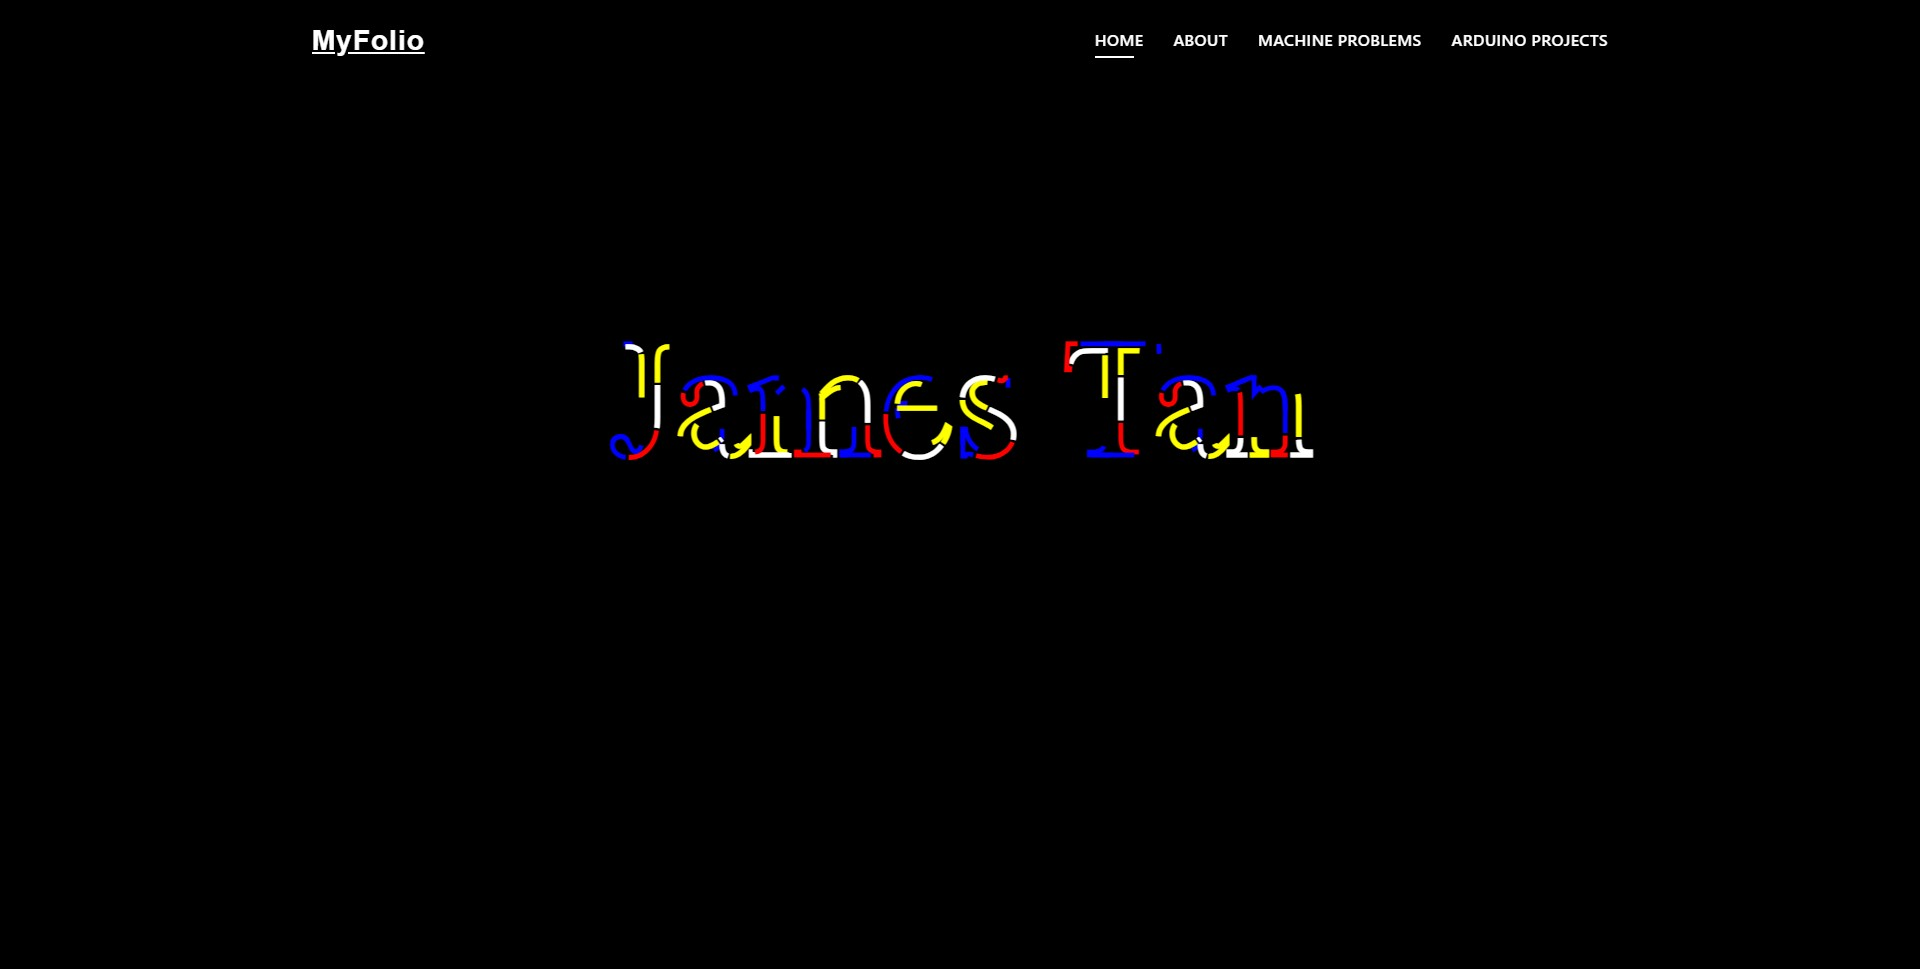
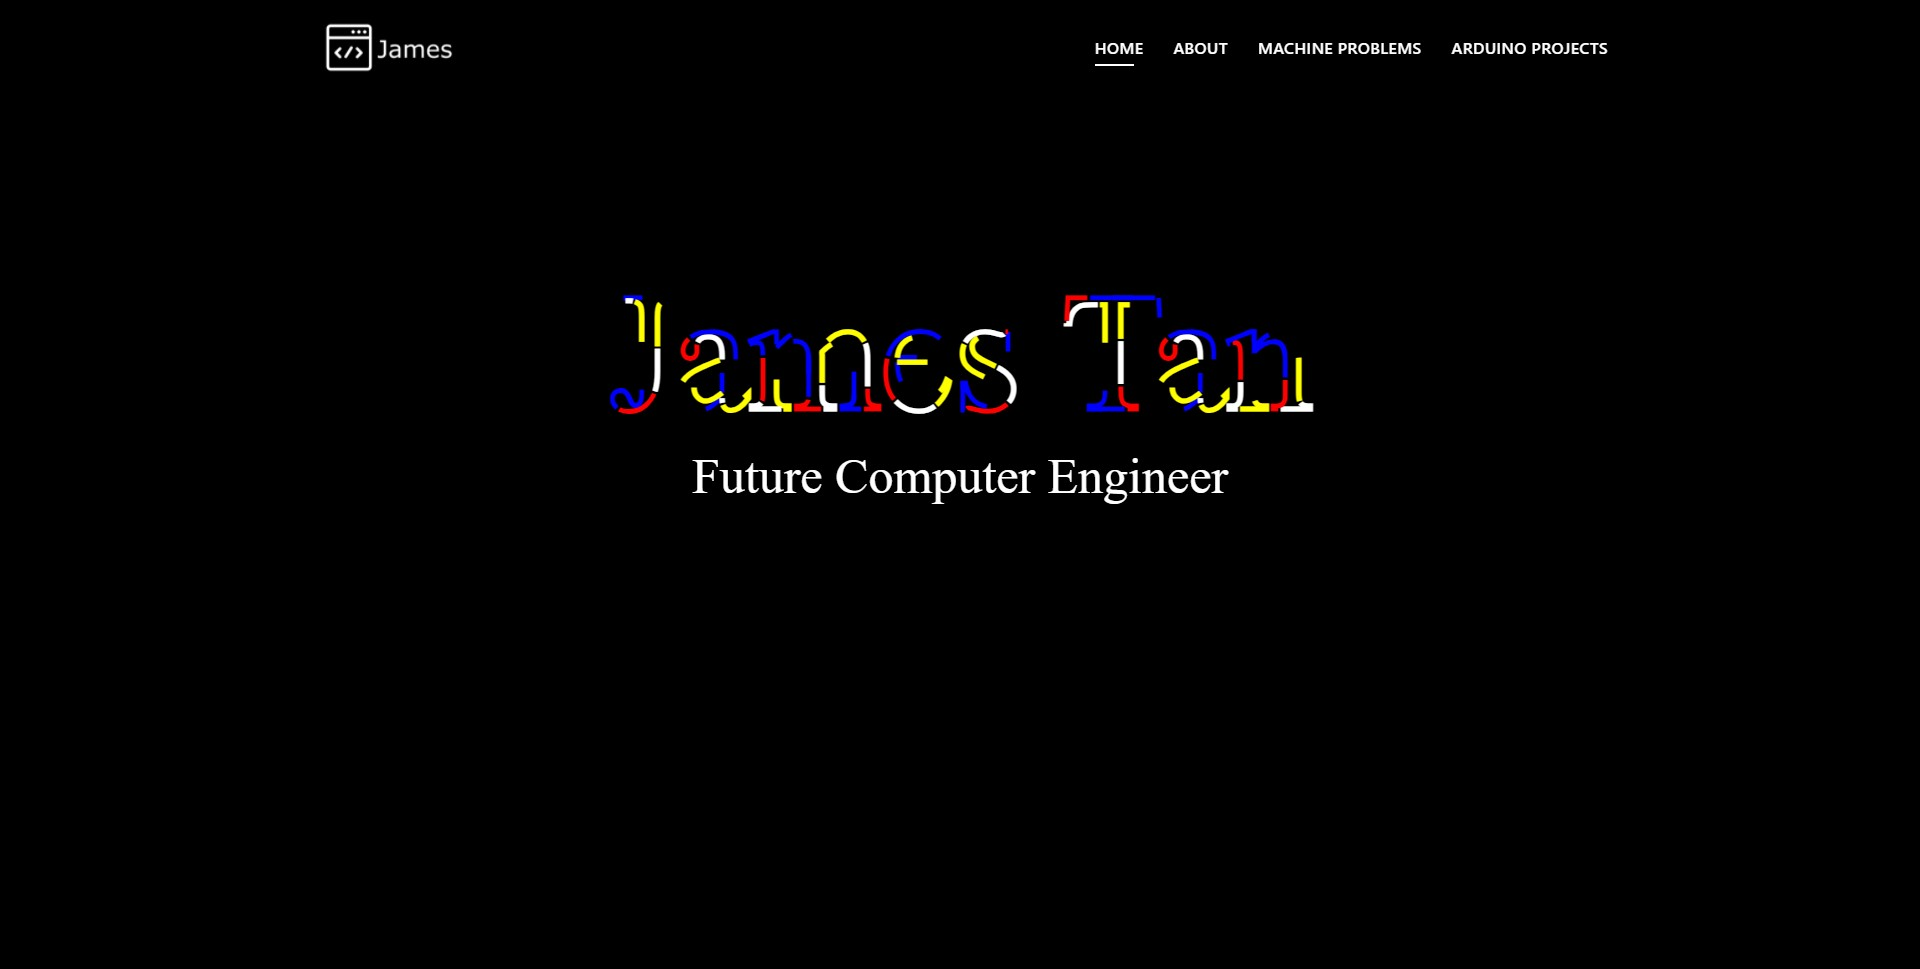
MP4 - Update (3.1)

Changed region(s): [[0.3125, 0.2786, 0.6875, 0.5263], [0.5625, 0.031, 0.8438, 0.0619], [0.1562, 0.031, 0.25, 0.0929]]

diff --git a/index.html b/index.html
@@ -5,6 +5,8 @@
     <meta http-equiv="X-UA-Compatible" content="IE=edge" />
     <meta name="viewport" content="width=device-width, initial-scale=1.0" />
     <title>My Personal Website</title>
+    <link href="Images/JamesLogoTwo.png" rel="icon" />
+    <link href="Images/JamesLogoTwo.png" rel="icon" />
     <link rel="stylesheet" href="bootstrap-5.1.1-dist\css\bootstrap.min.css" />
   </head>
 
@@ -13,14 +15,14 @@
     <header id="header" class="fixed-top">
       <div class="container d-flex align-items-center justify-content-between">
         <h1 class="logo">
-          <a href="MyPersonalWebsite.html"
+          <a href="index.html"
             ><img src="Images/JamesLogoTwo.png" alt="JamesLogoTwo"
           /></a>
         </h1>
 
         <nav id="navbar" class="navbar">
           <ul>
-            <li><a class="nav-link scrollto active" href="#hero">Home</a></li>
+            <li><a class="nav-link scrollto" href="#hero">Home</a></li>
             <li><a class="nav-link scrollto" href="#AboutMe">About</a></li>
             <li>
               <a class="nav-link scrollto" href="#MachineProblem"
@@ -59,18 +61,18 @@
                   <use xlink:href="#s-text" class="text-copy"></use>
                 </g>
               </svg>
+              <p
+                style="
+                  font-family: montserrat;
+                  font-size: 5vmin;
+                  position: relative;
+                  bottom: 150px;
+                  text-align: center;
+                "
+              >
+                Future Computer Engineer
+              </p>
             </div>
-            <p
-              style="
-                font-family: montserrat;
-                font-size: 50px;
-                position: relative;
-                bottom: 150px;
-                text-align: center;
-              "
-            >
-              Future Computer Engineer
-            </p>
           </div>
         </div>
       </div>
@@ -181,23 +183,24 @@
                         <h5 class="title-left">About me</h5>
                       </div>
                       <p class="lead">
-                        Curabitur non nulla sit amet nisl tempus convallis quis
-                        ac lectus. Curabitur arcu erat, accumsan id imperdiet
-                        et, porttitor at sem. Praesent sapien massa, convallis a
-                        pellentesque nec, egestas non nisi. Nulla porttitor
-                        accumsan tincidunt.
+                        James Matthew F. Tan is a third-year computer
+                        engineering student from The University of the East. He
+                        is a competent and hardworking student.He knows he needs
+                        to work hard and at the same time work smart to achieve
+                        those great things, he is willing to do everything that
+                        is needed to be done to achieve a life where he is at
+                        the top.
                       </p>
                       <p class="lead">
-                        Mauris blandit aliquet elit, eget tincidunt nibh
-                        pulvinar a. Vivamus suscipit tortor eget felis porttitor
-                        volutpat. Vestibulum ac diam sit amet quam vehicula
-                        elementum sed sit amet dui. porttitor at sem.
+                        He always wants to achieve great things in life and that
+                        includes being a great engineer and have the chance to
+                        work with one of the greatest minds of this generation
+                        like Elon Musk, Jeff Bezos, and Bill Gates.
                       </p>
                       <p class="lead">
-                        Nulla porttitor accumsan tincidunt. Quisque velit nisi,
-                        pretium ut lacinia in, elementum id enim. Nulla
-                        porttitor accumsan tincidunt. Mauris blandit aliquet
-                        elit, eget tincidunt nibh pulvinar a.
+                        After graduating from college and become a full pledge
+                        engineer he plans to work abroad and work as a computer
+                        engineer.
                       </p>
                     </div>
                   </div>
@@ -252,6 +255,7 @@
                 <img class="img-fluid" src="MachineProblems/MP2.jpg" />
               </a>
             </div>
+
             <div class="item branding col-sm-6 col-md-4 col-lg-4 mb-4">
               <a
                 href="/ncp3106/PersonalPortolio/MP3.html"
@@ -262,6 +266,16 @@
                   <span>Machine Problem No.3</span>
                 </div>
                 <img class="img-fluid" src="MachineProblems/MP3.jpg" />
+              </a>
+            </div>
+
+            <div class="item branding col-sm-6 col-md-4 col-lg-4 mb-4">
+              <a href="index.html" class="item-wrap fancybox">
+                <div class="work-info">
+                  <h3>My Personal Website</h3>
+                  <span>Machine Problem No.4</span>
+                </div>
+                <img class="img-fluid" src="MachineProblems/MP4.jpg" />
               </a>
             </div>
           </div>

diff --git a/bootstrap-5.1.1-dist/css/bootstrap.min.css b/bootstrap-5.1.1-dist/css/bootstrap.min.css
@@ -712,6 +712,7 @@ h6,
   height: 0.7rem;
   background-color: #0078ff;
 }
+
 /***********************************************************************************************************************************************************************/
 
 html,
